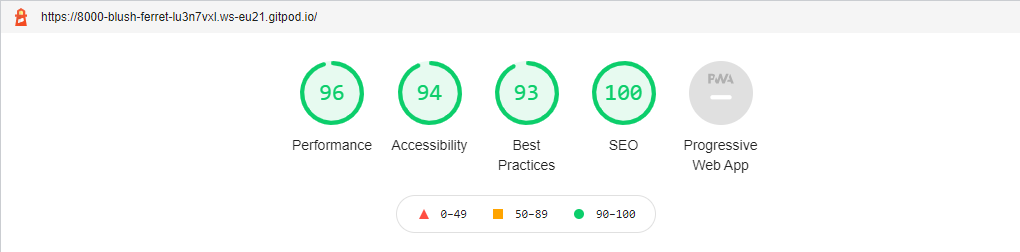
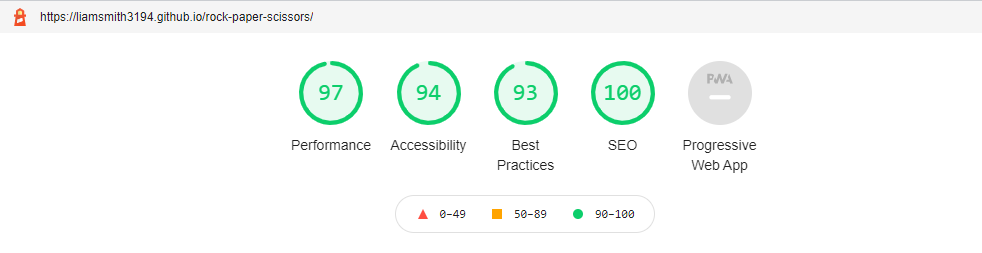
Final push

diff --git a/assets/js/script.js b/assets/js/script.js
@@ -35,6 +35,7 @@ function playGame(userAnswer) {
 function threeSecondTimer() {
     let timeleft = 3;
     let downloadTimer = setInterval(function () {
+
         if (timeleft <= 0) {
             clearInterval(downloadTimer);
             document.getElementById("countdown").innerHTML = "";
@@ -44,7 +45,6 @@ function threeSecondTimer() {
         timeleft -= 1;
     }, 1000);
 }
-
 
 function displayUserRock() {
 
@@ -80,7 +80,6 @@ function returnGame(userAnswer) {
             alert(`You played: ${userAnswer} \nThe computer played: ${randomComputerAnswer} \nYou won!`);
             increaseRoundNumber();
             increaseRoundsWon();
-
         }, 1000);
 
     } else if (randomComputerAnswer === "Rock" && userAnswer === "Scissors") {
@@ -89,7 +88,6 @@ function returnGame(userAnswer) {
             alert(`You played: ${userAnswer} \nThe computer played: ${randomComputerAnswer} \nYou lost!\n`);
             increaseRoundNumber();
             increaseRoundsLost();
-
         }, 1000);
 
 
@@ -99,7 +97,6 @@ function returnGame(userAnswer) {
             alert(`You played: ${userAnswer} \nThe computer played: ${randomComputerAnswer} \nYou lost!\n`);
             increaseRoundNumber();
             increaseRoundsLost();
-
         }, 1000);
 
     } else if (randomComputerAnswer === "Paper" && userAnswer === "Paper") {
@@ -108,7 +105,6 @@ function returnGame(userAnswer) {
             alert(`You played: ${userAnswer} \nThe computer played: ${randomComputerAnswer} \nIt"s a draw!`);
             increaseRoundNumber();
             increaseRoundsDrawn();
-
         }, 1000);
 
     } else if (randomComputerAnswer === "Paper" && userAnswer === "Scissors") {
@@ -117,7 +113,6 @@ function returnGame(userAnswer) {
             alert(`You played: ${userAnswer} \nThe computer played: ${randomComputerAnswer} \nYou won!`);
             increaseRoundNumber();
             increaseRoundsWon();
-
         }, 1000);
 
     } else if (randomComputerAnswer === "Scissors" && userAnswer === "Rock") {
@@ -126,7 +121,6 @@ function returnGame(userAnswer) {
             alert(`You played: ${userAnswer} \nThe computer played: ${randomComputerAnswer} \nYou won!`);
             increaseRoundNumber();
             increaseRoundsWon();
-
         }, 1000);
 
     } else if (randomComputerAnswer === "Scissors" && userAnswer === "Paper") {
@@ -135,7 +129,6 @@ function returnGame(userAnswer) {
             alert(`You played: ${userAnswer} \nThe computer played: ${randomComputerAnswer} \nYou lost!\n`);
             increaseRoundNumber();
             increaseRoundsLost();
-
         }, 1000);
 
     } else if (randomComputerAnswer === "Scissors" && userAnswer === "Scissors") {
@@ -144,7 +137,6 @@ function returnGame(userAnswer) {
             alert(`You played: ${userAnswer} \nThe computer played: ${randomComputerAnswer} \nIt"s a draw!`);
             increaseRoundNumber();
             increaseRoundsDrawn();
-
         }, 1000);
 
     } else {
@@ -153,12 +145,6 @@ function returnGame(userAnswer) {
     }
 
 }
-
-document.getElementById("user-image").addEventListener("keydown", function (event) {
-    if (event.key === "r") {
-        displayUserRock();
-    }
-});
 
 function displayComputerRock() {
 

diff --git a/assets/css/style.css b/assets/css/style.css
@@ -13,11 +13,6 @@ body {
     letter-spacing: 5px;
 }
 
-.game-area {
-    display: inline-block;
-    width: 100%;
-}
-
 .players {
     width: 100%;
 }
@@ -34,6 +29,11 @@ body {
     float: right;
     position: relative;
     right: 12.5%;
+}
+
+.game-area {
+    display: inline-block;
+    width: 100%;
 }
 
 #user-image {
@@ -105,7 +105,7 @@ body {
     text-transform: uppercase;
     padding-top: 10px;
     border-radius: 50%;
-    background-color: transparent;
+    background-color: white;
     border: 7.5px solid;
     border-color: #686868;
     width: 120px;

diff --git a/index.html b/index.html
@@ -14,6 +14,7 @@
     <link rel="manifest" href="./assets/favicon/site.webmanifest" crossorigin="use-credentials">
     <link href="https://fonts.googleapis.com/css2?family=Bebas+Neue&family=Space+Mono&display=swap" rel="stylesheet">
     <link rel="stylesheet" href="assets/css/style.css">
+
     <title>Rock, Paper, Scissors!</title>
 </head>
 

diff --git a/README.md b/README.md
@@ -2,7 +2,7 @@
 
 For the deployed website, [Click here.](https://liamsmith3194.github.io/rock-paper-scissors/)
 
-Welcome to Rock, Paper, Scissors! Based on the popular hand game, usually played between two people, in which each player simultaneously form one of three shapes with a hand.
+Welcome to Rock, Paper, Scissors! Based on the popular hand game, usually played between two people, in which each player simultaneously form one of three shapes with a hand. Often used instead of a slip of a coin.
 
 ![Icons & Rules](https://raw.githubusercontent.com/liamsmith3194/rock-paper-scissors/main/assets/readme-images/icons-rules.PNG)
 
@@ -16,7 +16,7 @@ Responsively designed to display on a range of devices from desktops to mobiles.
 
 1. As a first time visitor, I want a clear understanding of the interactive game on show.
 2. As a first time visitor, I want a brief description of the rules in order to win the game.
-3. As a first time visitor, I want to have live scoring round by round.
+3. As a first time visitor, I want to have live scoring, round by round.
 4. As a first time visitor, I want to enjoy the game and come back again and again.
 
 ### Returning Visitor Goals
@@ -26,8 +26,8 @@ Responsively designed to display on a range of devices from desktops to mobiles.
 - ### Design
 
 - #### Colour Scheme
-- With the cartoon images used for the hand gestures, the colour scheme is very clean, with the body being grey (#686868).
-The scoreboard uses win, draw, lose colours; green #3EA62D, black #000000, red #FF0000 just to add some brighter text.
+- With the artistic images used for the hand gestures, the colour scheme is very clean, with the body coloured grey (#686868).
+The scoreboard uses win, draw, lose colours; green #3EA62D, black #000000, red #FF0000 just to add some contrast.
 - #### Typography
 - One typeface is used throughout the site (Bebas Neue) which is clear to read and stands out enough to draw the user into the game. The game title has a 5px letter spacing and the remaining text has 2px letter spacing to increase readability. Finally, Bebas Neue has a fallback of sans-serif in case of any import issues.
 - #### Imagery
@@ -58,17 +58,14 @@ Below is a brief overview of the website and its main features.
 
 ### 3-second countdown
 
-- Once the user has selected an answer by clicking one of the buttons, a 3-second timer appears in between the round number and scoreboard. The timer then disappears once the countdown is complete and the end result is revealed.
+- Once the user has selected an answer by clicking one of the buttons, a 3-second timer appears in between the round number and scoreboard. The timer then disappears once the countdown is complete and the randomly generated computer answer is revealed along with the end result.
 
 ![3-second countdown](https://raw.githubusercontent.com/liamsmith3194/rock-paper-scissors/main/assets/readme-images/countdown-timer.PNG)
 
 
 ### Alert message to confirm round outcome
 
-- After the 1-second delay the alert message appears and summarises the round, for example:
-- You played: Rock
-- The computer played: Rock
-- It's a draw!
+- After the 1-second delay the alert message appears and summarises the round, for examples see below:
 
 ![Won](https://raw.githubusercontent.com/liamsmith3194/rock-paper-scissors/main/assets/readme-images/alert-message-won.PNG)
 
@@ -117,9 +114,10 @@ The W3C Markup Validator and W3C CSS Validator Services were used to ensure ther
 - [Jshint JavaScript linter](https://jshint.com/) - 26 warnings, the mast majority:
     -   'let' is available in ES6 (use 'esversion: 6') or Mozilla JS extensions (use moz).
     -   'template literal syntax' is only available in ES6 (use 'esversion: 6'.
+
 ### Lighthouse Testing
 
-Initial lighthouse scores produced a performance of 99 & 96 & accessibility of 100 & 94. The reason given for the accessibility score on a mobile is "Background and foreground colors do not have a sufficient contrast ratio." This points to the win and lose colours used against the white background. As someone with a type of red-green colour-blindness (Protan), I have had no issues telling the colours apart or reading text.
+Initial lighthouse scores produced a performance of 99 & 97 & accessibility of 100 & 94. The reason given for the accessibility score on a mobile is "Background and foreground colors do not have a sufficient contrast ratio." This points to the win and lose colours used against the white background. As someone with a type of red-green colour-blindness (Protan), I have had no issues telling the colours apart or reading text.
 
 - Desktop Results
 
@@ -138,7 +136,7 @@ After changing the resolution and file type of the images, the Desktop score pro
 
 Q1. As a first time visitor, I want a clear understanding of the interactive game on show.
 
-- A large majority of the world's population have played or understand how rock, paper scissors is played. As soon as users enter the site, it is abundantly clear what the game is and how to play it. The default icons on show increase the clarity.
+- A large majority of the world's population have played or understand how Rock, Paper Scissors is played. As soon as users enter the site, it is abundantly clear what the game is and how to play it. The default icons on show increase the clarity.
 
 Q2. As a first time visitor, I want a brief description of the rules in order to win the game.
 
@@ -150,12 +148,12 @@ Q3. As a first time visitor, I want to have live scoring round by round.
 
 Q4. As a first time visitor, I want to enjoy the game and come back again and again.
 
-- The way the game is run is so easy to play and understand. I have found myself saying "one more round" constantly, just to finish with a win and beating the computer.
+- The way the game is run is so easy to play and understand. I have found myself saying "one more round" constantly, just to finish with a win and beat the computer.
 
 ### Continued Testing
 
 - The Website was tested on Google Chrome, Internet Explorer (see glitches), Microsoft Edge and Safari browsers.
-- The website has been displayed on various devices such as Desktop PC, iMac, Laptop, iPhone X, iPad & iPad Mini.
+- The website has been displayed on various devices such as Desktop PC, iMac, Laptop, iPhone X & iPad Pro
 - Friends and family members were asked to review the site and documentation to point out any bugs and/or user experience issues.
 
 ### Glitches
@@ -165,8 +163,8 @@ Q4. As a first time visitor, I want to enjoy the game and come back again and ag
 
 #### Mobile (iPhone X)
 - The hover pseudo has been removed on smaller devices (tablet-phone) to ensure the user the game has been reset, as the button were not returning to original style after selection.
-- The button images appear stretched. No issues via inspect mode in a browser.
-- The button labels don't line up centrally beneath the buttons. No issues via inspect mode in a browser.
+- The button images appear stretched. However, there were no issues via inspect mode in a browser.
+- The button labels don't line up centrally beneath the buttons. Again, there were no issues via inspect mode in a browser.
 
 ## Deployment
 
@@ -199,13 +197,13 @@ GitHub was the program used to deploy the site, it was accomplished by using the
 
 ### Code
 
-- Generating a random word (Rock, Paper or Scissors) from the console - Love Maths (Walkthrough Project)
+- Generating a random word (Rock, Paper or Scissors) from the console - Love Maths (Walkthrough Project).
 
-- Transition CSS - Animates the hover pseduo on the buttons - Love Maths (Walkthrough Project)
+- Transition CSS - Animates the hover pseduo on the buttons - Love Maths (Walkthrough Project).
 
 - Switch function - Suggested by my mentor to display else statements in a cleaner way.
 
-- Countdown function - On click of one of the three options, and a countdown timer appears underneath the computer icons.
+- Countdown function - On click of one of the three options, and a countdown timer appears underneath the round number.
 [Stack Overflow](https://stackoverflow.com/questions/31106189/create-a-simple-10-second-countdown)
 
 - Delay function - Used to display the computer's answer and works with the above countdown function.
